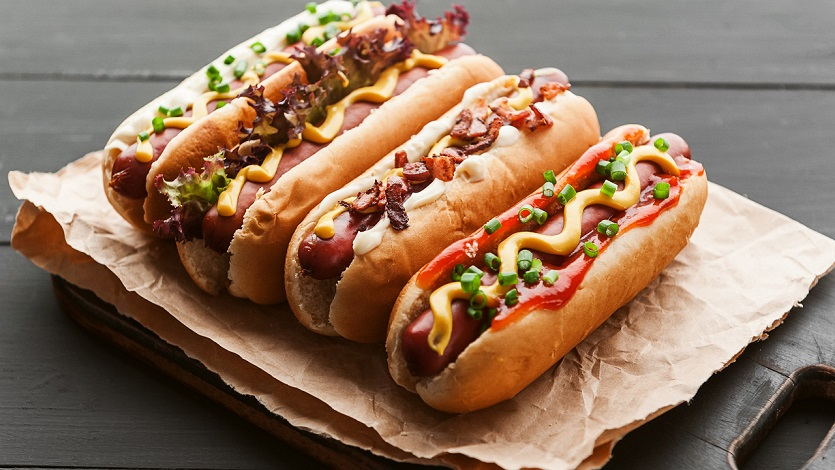
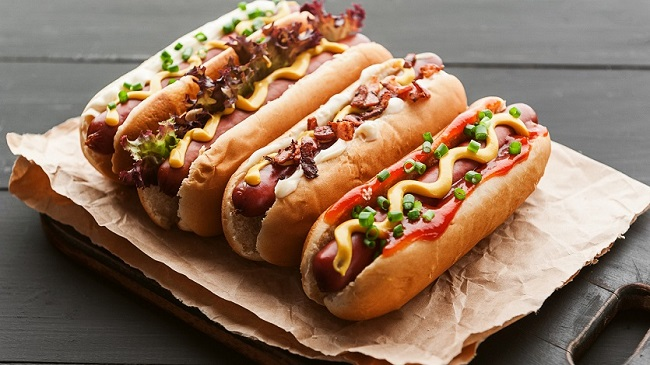
project1_220424_jingyu3
이미지 추가 및 크기 변경, 서브 페이지 추가

diff --git a/sub.html b/sub.html
@@ -1,0 +1,248 @@
+<!DOCTYPE html>
+<html lang="en">
+<head>
+    <meta charset="UTF-8">
+    <meta http-equiv="X-UA-Compatible" content="IE=edge">
+    <meta name="viewport" content="width=device-width, initial-scale=1.0">
+    <title>Document</title>
+        <link rel="stylesheet" href="css/reset.css">
+        <link rel="stylesheet" href="css/common.css">
+        
+
+    <style>
+
+        #slider2 a:visited { color:#333; }
+
+        #slider { width: 1500px; height: 470px; margin: 0 auto;
+                    position: relative;}
+        #slider img { float: left; margin: 50px 0 0px 50px; }
+        #slider #product { width: 650px; position: absolute;
+                           position: absolute; }
+        #slider .table1 { width: 725px; height: 200px; border-bottom: 1px solid lightgray;
+                position: absolute; top: 50px; right: 50px; border-top: 2px solid #333;  }
+        .table1 td { padding: 0px 5px; }
+        #slider .best_bread { background: coral; color:#fff;
+                              padding: 0 10px 0 10px; border-radius: 10px; }
+
+
+       #slider .table2 { width: 725px; height: 50px; border-bottom: 1px solid lightgray;
+                         position: absolute; top: 250px; right: 50px; background: rgb(200, 200, 200); }
+        
+        #slider .table3 { width: 725px; height: 50px; border-bottom: 1px solid lightgray;
+                          position: absolute; top: 300px; right: 50px; }
+        #slider .plus_button { width: 15px; height: 15px; position: absolute; top: 260px; right: 475px; }
+        #slider .plus_button .plus { cursor: pointer; }
+        #slider .minus_button .minus { cursor: pointer; }
+        #slider .minus_button { width: 15px; height: 15px; position: absolute; top: 275px; right: 475px; }                  
+
+        #slider .buttons { width: 725px; height: 65px; border-bottom: 1px solid lightgray;
+                          position: absolute; top: 350px; right: 50px; }
+        #slider .buttons > span { font-size: 12px;  }
+        #slider .buttons > span > strong { font-size: 16px;  }
+        #slider .button1 { width: 175px; height: 40px; margin: 15px 0 0 10px; float: left;
+                           background: linear-gradient(to bottom,#142424 100%,#152324 100%); color:#fff; 
+                           box-shadow: 0 2px 2px rgb(0 0 0 / 4%); border-style:none; text-shadow: 0 0 2px rgb(0 0 0 / 20%); }
+        #slider .button1:hover { background: linear-gradient(to bottom,#213d3d 100%,#254647 100%); }  
+
+        #slider .button2 { width: 125px; height: 40px; margin: 15px 0 0 10px; float: left;
+                           background: linear-gradient(to bottom,#eae6ee 40%,#dedbe6 100%); color:#333;
+                           border-style: none; box-shadow: 0 2px 2px rgb(0 0 0 / 4%); text-shadow: 0 0 2px rgb(0 0 0 / 20%); }
+        #slider .button2:hover { background: linear-gradient(to bottom,#d6d0db 40%,#d2cfdb 100%); }
+
+        #slider .button3 { width: 125px; height: 40px; margin: 15px 0 0 10px; float: left;
+                           background: linear-gradient(to bottom,#eae6ee 40%,#dedbe6 100%); color:#333;
+                           border-style: none; box-shadow: 0 2px 2px rgb(0 0 0 / 4%); text-shadow: 0 0 2px rgb(0 0 0 / 20%); }
+        #slider .button3:hover { background: linear-gradient(to bottom,#d6d0db 40%,#d2cfdb 100%); }
+        
+        #slider2 { width: 1500px; height: 200px; margin: 0 auto; }
+        #slider2 .small_bread { width: 200px; height: 112px; margin: -30px 0px 0px 50px;
+                                opacity: 0.87; cursor: pointer; display:inline; }
+        #slider2 .line { width: 340px; height: 10px; border-top: 2px solid #333; float:right; margin-right: 50px; margin-top: -30px; }
+        #slider2 .payment { width: 340px; height: 60px; display: flex; flex-wrap: wrap; float: right; margin-bottom: 20px; }
+        #slider2 .pay_img { width: 65px; height: 40px; display: inline-block; margin-right: 10px; }
+        #slider2 .pay_button { width: 146px; height: 42px; display: inline-block; margin-right: 10px; cursor:pointer; }
+        #slider2 .wish_list { width: 40px; height: 40px; background: #fff; color:steelblue; border: 1px solid lightgray;
+                              font-weight: 900; font-size: 18px; }
+        #slider2 .social_media { margin-left: -850px; }
+        #slider2 .social_media  > li { float: left; padding: 10px 0px 0 20px; }
+
+        #slider2 #slider_anchor1 { width: 100%; height: 35px; border-bottom: 1px solid #555;
+                                   text-align: center; }
+        #slider_anchor1 .product_detail1 { position: relative; }
+        #slider_anchor1 .product_detail1 li { display: inline-block; margin: 0px 0 0 -6px; vertical-align: middle; }
+
+        #slider_anchor1 .product_detail1 .click_on1 { display: inline-block; border: 1px solid #555; min-width: 125px; height: 35px;
+                                                      background: #fff; border-bottom: none; position: relative; z-index: 5; color:#444; 
+                                                      font-size: 15px; }
+        
+        #slider_anchor1 .product_detail1 .click_on1 > a { color:#444; }
+        
+        #slider_anchor1 .product_detail1 > .click_none1 > a { display: block; border: 1px solid #989898; min-width: 125px; height: 35px;
+                                                              background-color: rgba(233, 233, 233, 0.75); border-left: none; color:#444;
+                                                              font-size: 15px; }
+
+        
+
+
+
+
+        
+      
+
+        button { margin: 3px; cursor: pointer; }
+
+        
+        
+
+        /* #slider .slider_line1 { float: right; width: 610px; height: 25px; 
+                               border-bottom: 2px solid #333; margin-right: 170px; margin-top: 24px; }
+        #slider .slider_line2 { float: right; width: 610px; height: 25px; 
+                                border-bottom: 1px solid lightgray; margin-right: 170px; }
+        #slider .slider_line3 { float: right; width: 610px; height: 25px; 
+                                border-bottom: 1px solid lightgray; margin-right: 170px; }
+        #slider .slider_line4 { float: right; width: 610px; height: 25px; 
+                                border-bottom: 1px solid lightgray; margin-right: 170px; }
+        #slider .blank_space { width: 100%; height: 50px; }
+        #slider .slider_text1 { width: 100%; height: 30px; font-weight: 500;
+                                font-size: 25px; padding: 15px 0px 0px 730px; }
+        #slider .slider_text2 { width: 100%; height: 4px; margin-top: 30px; font-size: 12px;
+                                padding: 15px 0px 0px 730px;}
+        #slider .slider_text3 { width: 100%; height: 2px; margin-top: 30px; font-size: 12px; 
+                                padding: 10px 0px 0px 730px;}
+        #slider .slider_text4 { width: 100%; height: 2px; margin-top: 30px; font-size: 12px; 
+                                padding: 10px 0px 0px 730px;}
+        #slider .slider_text5 { width: 100%; height: 2px; margin-top: 30px; font-size: 12px; 
+                                padding: 10px 0px 0px 730px;}
+        #slider .slider_text5 > span { line-height: 200% } */
+        
+                       
+                       
+        section { width: 1500px; height: 1500px; margin: 0 auto; background-color: navajowhite; }
+
+    </style>
+</head>
+<body>
+    <div id="slider">
+        <div id="product"><img src="img/sub/sausage_bread_sub.jpg" alt="소세지빵"></div>
+
+        <div class="slider_line1"></div>
+        <div class="blank_space"></div>
+
+        <div class="plus_button"><img src="img/sub/plus_icon.png" class="plus"></div>
+        <div class="minus_button"><img src="img/sub/minus_icon.png" class="minus"></div>
+
+        
+        <table class="table1">
+            <tbody>
+
+            <colgroup>
+                <col style= "width: 25%;">
+                <col style= "width: 75%;">
+            </colgroup>
+           
+                <tr>
+                    <td><span class="best_bread">Best Bread</span></td>
+                    <td style="width: 300px; font-weight: 600; font-size: 25px;"> 뉴욕식 소세지빵 4개입(정기배송)</td>
+                </tr>
+
+                <tr>
+                    <td> 〉 판매가</td>
+                    <td><strong>16000원</strong></td>
+                </tr>
+            
+                <tr>
+                    <td> 〉 국내 · 해외 배송</td>
+                    <td>국내배송</td>
+                </tr>
+
+                <tr>
+                    <td> 〉 배송방법</td>
+                    <td>택배</col>
+                </tr>
+                
+                <tr>
+                    <td> 〉 배송비</td>
+                    <td>배송비 무료</td>
+                </tr>
+    
+            
+        </table>
+
+        <tbody>
+
+        <table class="table2">
+            <td>상품명</td>
+            <td>상품수</td>
+            <td>가격</td>
+
+        </table>
+
+        
+        <table class="table3">
+            <colgroup>
+                <col style="width:40%;">
+                <col style="width:35%;">
+                <col style="width:25%;">
+            </colgroup>
+            <td>뉴욕식 소세지빵(4개입)</td>
+            <td>
+                <input type="text" id="quantity" name="quantity_option" value="1" min="1" size="1"  maxlength="3" pattern="^[0-9]+$">       
+            </td>
+            <td>16000원</td>
+
+        </table>
+
+        <div class="buttons">
+            <a href="#"><button type="button" class="button1">바로구매하기</button></a>
+            <a href="#"><button type="button" class="button2">장바구니</button></a>
+            <a href="#"><button type="button" class="button3">관심상품</button></a><br>&emsp;&ensp;
+            <span><b>총 상품금액</b>(수량):<strong>16000원</strong>(1개)</span>
+        </div>
+        
+
+
+        <!-- <div class="slider_line2"></div>
+        <div class="slider_text2"><br> 〉 판매가 &nbsp;&nbsp;&nbsp;&nbsp;&nbsp;&nbsp;&nbsp;&nbsp;&nbsp;&nbsp;&nbsp;&nbsp;&nbsp;&nbsp;&nbsp;&nbsp;16000원</div>
+        <div class="slider_line3"></div>
+        <div class="slider_text3"> 〉 국내 · 해외 배송 &nbsp;&nbsp;&nbsp;&nbsp;&nbsp;&nbsp;&nbsp;&nbsp;&nbsp;&nbsp;&nbsp;&nbsp;&nbsp;&nbsp;&nbsp;&nbsp;국내배송</div>
+        <div class="slider_text4"> 〉 배송방법 &nbsp;&nbsp;&nbsp;&nbsp;&nbsp;&nbsp;&nbsp;&nbsp;&nbsp;&nbsp;&nbsp;&nbsp;&nbsp;&nbsp;&nbsp;&nbsp;택배</div>
+        <div class="slider_text5"> 〉 배송비 &nbsp;&nbsp;&nbsp;&nbsp;&nbsp;&nbsp;&nbsp;&nbsp;&nbsp;&nbsp;&nbsp;&nbsp;&nbsp;&nbsp;&nbsp;&nbsp; 
+                                <span>조건부 무료</span><button type="button">배송비할인</button>
+                            </div>
+        <div class="slider_line4"></div>
+    </div>
+    <div id="slider2"> -->
+
+    
+    
+        </div>
+        
+</div>
+    <div id="slider2">
+        <div class="line"></div>
+        <div class="small_bread"><img src="img/sub/small_sausage_bread_sub.png"></div>
+        <div class="payment">
+            <div class="pay_img"><img src="img/sub/pay_icon.png"></div>
+            <div class="pay_button"><img src="img/sub/Irinapay_button.jpg"></div>
+            <button type="button" class="wish_list">찜</button>
+            <ul class="social_media">
+                <li><a href="#"><img src="img/sub/facebook_icon_sub.png"></a></li>
+                <li><a href="#"><img src="img/sub/twitter_icon_sub.png"></a></li>
+                <li><a href="#"><img src="img/sub/google_icon_sub.jpg"></a></li>
+                <li><a href="#"><img src="img/sub/pinterest_icon_sub.png"></a></li>
+            </ul>
+        </div>
+        <br><br>
+        <div id="slider_anchor1">
+        <ul class="product_detail1">
+            <li class="click_on1"><a href="#">상품상세정보</a></li>
+            <li class="click_none1"><a href="#">상품구매안내</a></li>
+            <li class="click_none1"><a href="#">관련상품</a></li>
+            <li class="click_none1"><a href="#">상품후기</a></li>
+            <li class="click_none1"><a href="#">상품문의</a></li>
+        </ul>
+        </div>
+    </div>
+    <section></section>
+</body>
+</html>
